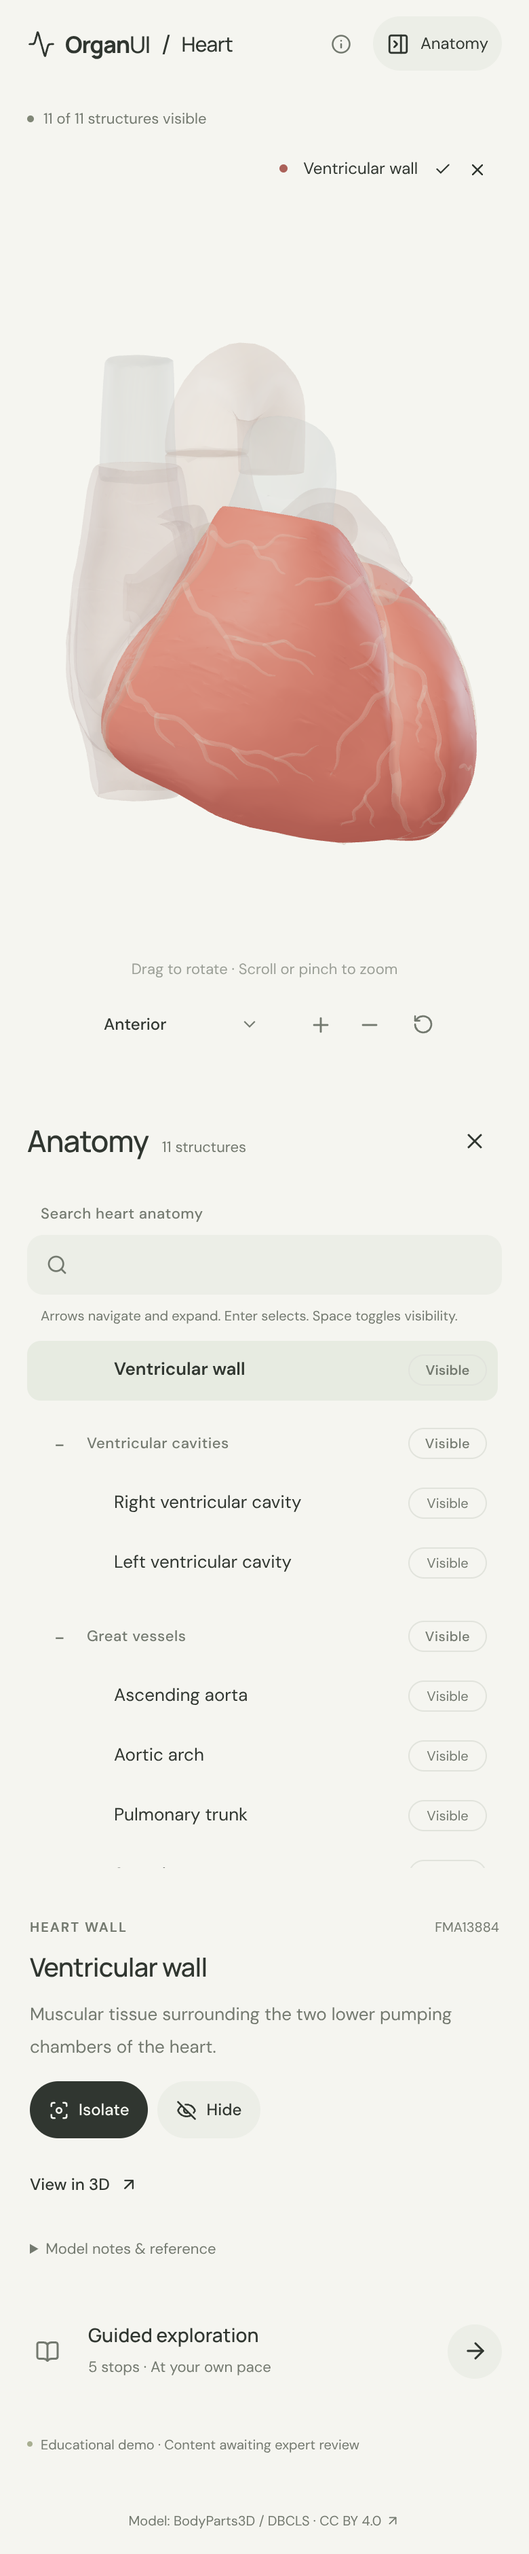
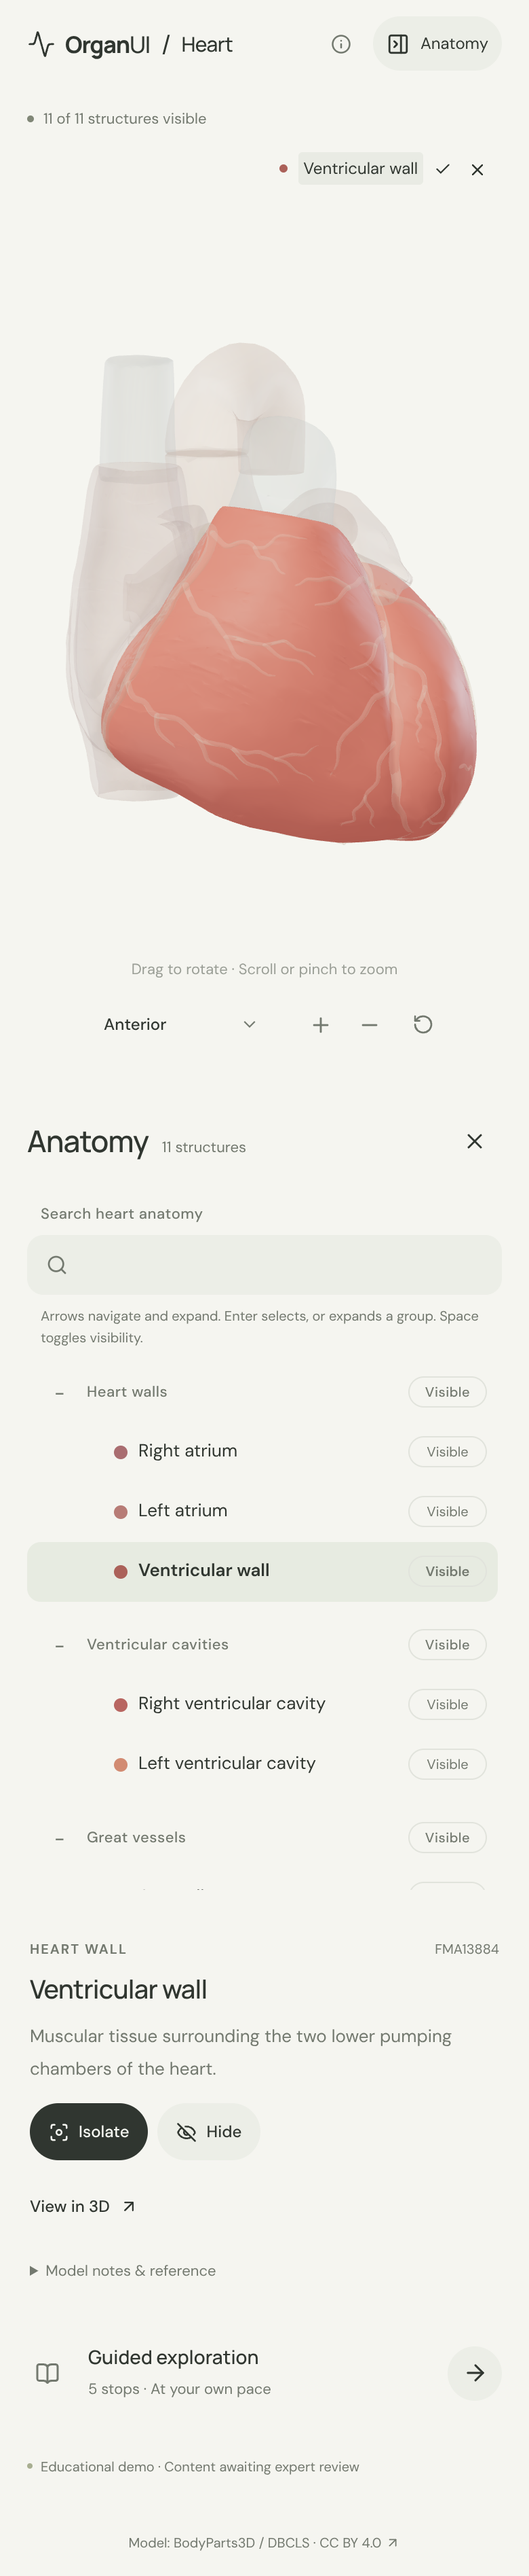
Adopt anatomy-tree colour swatches, non-selectable groups, and reveal
Reinstall the registry anatomy-tree with shadcn@4.21.0 from a local
server serving organui PR #12 (commit d6b36d0), which adds
AnatomyNode.color, AnatomyNode.selectable, and built-in reveal of the
selected row. The installed file is unmodified apart from the CLI's
"use client" removal; @base-ui/react stays pinned at 1.8.0.

- Leaves carry their mesh colour; group-* rows are selectable: false,
  so clicking or pressing Enter expands/collapses them. Drop the
  "is a grouping" announcement, keeping a guard for non-structure IDs.
- Remove the selection-driven scroll effect in favour of built-in
  reveal; keep only a panel-open scroll for selections made while the
  tree was hidden, which reveal cannot handle.
- Update adapter tests, the registry integration record (checksums,
  options, resolved friction, mobile page-scroll note), README and
  verification notes; recapture panel screenshots.

Claude-Session: https://claude.ai/code/session_01WZXw8BNji5gYqeZAzSuRCJ

diff --git a/src/components/ui/anatomy-tree.tsx b/src/components/ui/anatomy-tree.tsx
@@ -5,6 +5,13 @@ export type AnatomyNode = {
   id: string
   label: string
   children?: readonly AnatomyNode[]
+  /** A CSS color shown as a decorative swatch before the label. */
+  color?: string
+  /**
+   * Defaults to true. A row that is not selectable expands or collapses
+   * instead, for groupings that have no single structure to select.
+   */
+  selectable?: boolean
 }
 export type AnatomyTreeProps = {
   data: readonly AnatomyNode[]
@@ -158,11 +165,35 @@ export function AnatomyTree({
   const helpId = React.useId()
   const searchId = React.useId()
   const searching = deferredQuery.trim() !== ""
+  const groupsExpand = React.useMemo(
+    () => [...index.nodes.values()].some((node) => node.selectable === false),
+    [index]
+  )
   const rows = React.useMemo(
     () => anatomyRows(data, index, expanded, deferredQuery),
     [data, index, expanded, deferredQuery]
   )
   const focusId = focusTarget(rows, activePath, index.parents)
+  // Reveal a selection made outside the tree, such as in a 3D view: when its
+  // row is not shown, expand its ancestors, then scroll the row into view.
+  const [reveal, setReveal] = React.useState({ id: selectedId, scroll: false })
+  if (reveal.id !== selectedId) {
+    const known = !!selectedId && index.nodes.has(selectedId)
+    const shown = rows.some(({ node }) => node.id === selectedId)
+    setReveal({ id: selectedId, scroll: known })
+    const ancestors: string[] = []
+    let parent = known && !shown ? index.parents.get(selectedId!) : undefined
+    while (parent) {
+      ancestors.push(parent)
+      parent = index.parents.get(parent)
+    }
+    if (ancestors.some((id) => !expanded.has(id)))
+      setExpanded(new Set([...expanded, ...ancestors]))
+  }
+  React.useEffect(() => {
+    if (reveal.scroll && reveal.id)
+      refs.current.get(reveal.id)?.scrollIntoView?.({ block: "nearest" })
+  }, [reveal])
   React.useLayoutEffect(() => {
     // Recover only when an update removed the focused element. Focus that
     // left the tree on purpose, even to the body, is never taken back.
@@ -187,6 +218,10 @@ export function AnatomyTree({
       return next
     })
   }
+  function activate(node: AnatomyNode) {
+    if (node.selectable !== false) onSelectionChange(node.id)
+    else if (node.children?.length && !searching) toggleExpanded(node.id)
+  }
   function toggleVisibility(node: AnatomyNode) {
     onVisibilityChange(nextVisibility(node, index, visibility))
   }
@@ -206,7 +241,9 @@ export function AnatomyTree({
         className="mb-3 w-full rounded-md border bg-background px-3 py-2 text-sm focus-visible:outline-2 focus-visible:outline-ring"
       />
       <p id={helpId} className="mb-3 text-xs text-muted-foreground">
-        Arrows navigate and expand. Enter selects. Space toggles visibility.
+        {groupsExpand
+          ? "Arrows navigate and expand. Enter selects, or expands a group. Space toggles visibility."
+          : "Arrows navigate and expand. Enter selects. Space toggles visibility."}
       </p>
       <div
         role="tree"
@@ -249,7 +286,9 @@ export function AnatomyTree({
               aria-setsize={size}
               aria-posinset={position}
               aria-expanded={branch ? open : undefined}
-              aria-selected={selectedId === node.id}
+              aria-selected={
+                node.selectable === false ? undefined : selectedId === node.id
+              }
               aria-checked={checked}
               tabIndex={focusId === node.id ? 0 : -1}
               onFocus={() => {
@@ -290,7 +329,7 @@ export function AnatomyTree({
                   if (branch && open && !searching) toggleExpanded(node.id)
                   else focus(index.parents.get(node.id))
                 }
-                if (event.key === "Enter") onSelectionChange(node.id)
+                if (event.key === "Enter") activate(node)
                 if (event.key === " ") toggleVisibility(node)
               }}
               className="my-1 flex min-h-10 items-center gap-1 rounded-md px-2 text-sm outline-offset-2 hover:bg-muted focus-visible:outline-2 focus-visible:outline-ring aria-selected:bg-accent aria-selected:font-semibold"
@@ -316,11 +355,18 @@ export function AnatomyTree({
                 tabIndex={-1}
                 onClick={() => {
                   focus(node.id)
-                  onSelectionChange(node.id)
+                  activate(node)
                 }}
-                className="min-w-0 flex-1 py-2 text-start break-words"
+                className="flex min-w-0 flex-1 items-center gap-2 py-2 text-start break-words"
               >
-                {node.label}
+                {node.color && (
+                  <span
+                    aria-hidden="true"
+                    className="size-2.5 shrink-0 rounded-full"
+                    style={{ backgroundColor: node.color }}
+                  />
+                )}
+                <span className="min-w-0">{node.label}</span>
               </Button>
               <Button
                 tabIndex={-1}

diff --git a/src/App.tsx b/src/App.tsx
@@ -47,16 +47,19 @@ export default function App() {
   const [treeKey, setTreeKey] = useState(0)
   const current = selected ? byId[selected] : null
   const visibleCount = structures.length - hidden.size
-  // Keep the selected row in view inside the scrolling tree, without moving the page.
+  // The tree reveals selections made while it is shown. One made while the
+  // panel was closed (hidden tree, nothing to scroll) is brought into the tree's
+  // own scroll area when the panel opens, without moving the page.
   useLayoutEffect(() => {
+    if (!sidebarOpen) return
     const tree = anatomyPanel.current?.querySelector<HTMLElement>('[role="tree"]')
     const row = tree?.querySelector<HTMLElement>('[role="treeitem"][aria-selected="true"]')
-    if (!tree || !row || tree.scrollHeight <= tree.clientHeight) return
+    if (!tree || !row) return
     const bounds = tree.getBoundingClientRect(),
       item = row.getBoundingClientRect()
     if (item.top < bounds.top) tree.scrollTop += item.top - bounds.top
     else if (item.bottom > bounds.bottom) tree.scrollTop += item.bottom - bounds.bottom
-  }, [selected, step, sidebarOpen])
+  }, [sidebarOpen])
 
   useLayoutEffect(() => {
     if (!sidebarOpen || !focusPanel.current) return
@@ -88,13 +91,10 @@ export default function App() {
     )
   }
   // Selection stays a single structure: the renderer, detail card, and chip
-  // describe one structure. Group rows only expand/collapse and toggle visibility.
+  // describe one structure. Group rows are not selectable (they expand or
+  // collapse); the guard only drops unknown IDs.
   function choose(id: string) {
     if (isStructureId(id)) select(id)
-    else
-      setAnnouncement(
-        `${anatomyTree.find((group) => group.id === id)?.label ?? 'Group'} is a grouping. Choose a structure within it to select.`,
-      )
   }
   function changeVisibility(visibility: Record<string, boolean>) {
     const next = hiddenFromVisibility(visibility)

diff --git a/src/anatomy-adapter.ts b/src/anatomy-adapter.ts
@@ -3,7 +3,9 @@ import { groups, structures } from './anatomy'
 
 // Scene-specific mapping between the explorer's structures and the registry
 // anatomy tree. Group rows are interface groupings taken from the existing
-// list headings; they do not claim anatomical containment.
+// list headings; they do not claim anatomical containment, so they are not
+// selectable: activating one expands or collapses it. Leaves carry the same
+// colour the 3D mesh uses.
 
 const structureIds = new Set(structures.map(({ id }) => id))
 
@@ -16,9 +18,10 @@ export function groupId(group: string): string {
 export const anatomyTree: readonly AnatomyNode[] = groups.map((group) => ({
   id: groupId(group),
   label: group,
+  selectable: false,
   children: structures
     .filter((structure) => structure.group === group)
-    .map(({ id, name }) => ({ id, label: name })),
+    .map(({ id, name, color }) => ({ id, label: name, color })),
 }))
 
 export const groupIds = anatomyTree.map(({ id }) => id)

diff --git a/src/anatomy-adapter.test.ts b/src/anatomy-adapter.test.ts
@@ -23,6 +23,17 @@ describe('anatomy tree adapter', () => {
     )
   })
 
+  test('marks group rows as non-selectable and colours leaves like their meshes', () => {
+    for (const group of anatomyTree) {
+      expect(group.selectable).toBe(false)
+      expect(group.color).toBeUndefined()
+      for (const leaf of group.children!) {
+        expect(leaf.selectable).toBeUndefined()
+        expect(leaf.color).toBe(structures.find(({ id }) => id === leaf.id)!.color)
+      }
+    }
+  })
+
   test('maps group rows to their scene leaves and leaves to themselves', () => {
     expect(sceneIdsForNode('group-ventricular-cavities')).toEqual([
       'right-ventricle',

diff --git a/docs/REGISTRY_INTEGRATION.md b/docs/REGISTRY_INTEGRATION.md
@@ -4,21 +4,21 @@ The anatomy panel uses the OrganUI registry item `anatomy-tree`, installed with 
 
 ## Exact installation
 
-Installed on 2026-10-16:
+Reinstalled on 2026-10-16 (overwriting the earlier install from `master` commit 5e20c41):
 
 ```sh
-REGISTRY_URL=http://127.0.0.1:4410 bunx shadcn@4.21.0 add http://127.0.0.1:4410/anatomy-tree.json -y
+REGISTRY_URL=http://127.0.0.1:4411 bunx shadcn@4.21.0 add http://127.0.0.1:4411/anatomy-tree.json -y -o
 ```
 
-The install sandbox's network policy blocked `organui.com` and `ui.shadcn.com`. The item was therefore served from a local static server (`python3 -m http.server 4410`) holding the registry output built from the OrganUI repository at `master` commit **5e20c41**, plus shadcn's `colors/neutral.json` fetched from the shadcn GitHub repository. `REGISTRY_URL` points the CLI's own registry lookups at that server instead of `ui.shadcn.com`. With network access, the equivalent public command is `bunx shadcn@4.21.0 add https://organui.com/r/anatomy-tree.json -y`, but that public artifact was not fetched for this install and may differ from commit 5e20c41.
+The install sandbox's network policy blocked `organui.com` and `ui.shadcn.com`. The item was therefore served from a local static server (`python3 -m http.server 4411`) holding the registry output built from the OrganUI repository at commit **d6b36d0**, the head of organui PR #12 (not merged when this was installed), plus shadcn's `colors/neutral.json` fetched from the shadcn GitHub repository. `REGISTRY_URL` points the CLI's own registry lookups at that server instead of `ui.shadcn.com`. With network access, the equivalent public command is `bunx shadcn@4.21.0 add https://organui.com/r/anatomy-tree.json -y -o`. That public artifact was not fetched for this install; once PR #12 is merged and published, the public item must be re-verified against the checksums below (or reinstalled from it).
 
-| Artifact                                | SHA-256                                                            |
-| --------------------------------------- | ------------------------------------------------------------------ |
[3 lines of base64/hex data omitted]
+| Artifact                                     | SHA-256                                                            |
+| -------------------------------------------- | ------------------------------------------------------------------ |
[3 lines of base64/hex data omitted]
 
-The item declares `@base-ui/react@^1.8.0`. The CLI wrote `^1.8.0` to `package.json`; it was changed back to the exact `1.8.0` to match this repository's exact pins, and `bun install` refreshed the text `bun.lock`. Tailwind CSS and `@tailwindcss/vite` are pinned at 4.1.18, matching the kidney explorer.
+The item declares `@base-ui/react@^1.8.0`. The CLI again wrote `^1.8.0` to `package.json`; it was changed back to the exact `1.8.0` to match this repository's exact pins, and `bun install` left the text `bun.lock` unchanged. Tailwind CSS and `@tailwindcss/vite` are pinned at 4.1.18, matching the kidney explorer.
 
 ## Installed-source differences
 
@@ -26,13 +26,13 @@ The only difference from the published source is that the CLI removed the `"use 
 
 ## API used
 
-- `data`: four group rows, each with its structure leaves;
+- `data`: four group rows (`selectable: false`), each with its structure leaves (`color` set to the structure's mesh colour);
 - `selectedId` / `onSelectionChange`: the app's single controlled selection;
 - `visibility` / `onVisibilityChange`: a map keyed by leaf IDs, where a missing entry means visible;
 - `defaultExpandedIds`: all four groups, so the tree initially lists every structure like the old list;
 - `label="Heart anatomy"` and `className="registry-tree"`.
 
-Search and expansion stay internal to the component.
+Search and expansion stay internal to the component. The component's built-in reveal expands a collapsed group and scrolls the row into view when the selection changes to a row that is not shown, for example after a 3D pick or a tour step.
 
 ## Application adapter
 
@@ -47,16 +47,17 @@ Scene-specific logic lives in `src/anatomy-adapter.ts`, built from the existing 
 
 Groups are the headings the hand-built list already used. They are interface groupings only and do not claim anatomical containment (for example, the cavity surfaces are not "inside" the walls group). Every leaf ID is exactly one application structure ID and one GLB node.
 
-The adapter provides `anatomyTree`, `sceneIdsForNode`, `normalizeVisibility`, `visibilityFromHidden` / `hiddenFromVisibility` (the app keeps its existing `hidden` set and converts at the boundary), `isStructureId`, and `assertAnatomyMapping`, which runs at import and throws on missing, unknown, or duplicate leaves. `src/anatomy-adapter.test.ts` covers these with `bun test`.
+Leaves carry `color` from `structures` in `src/anatomy.ts`, the same value the renderer applies to the mesh material; group rows set `selectable: false`. The adapter provides `anatomyTree`, `sceneIdsForNode`, `normalizeVisibility`, `visibilityFromHidden` / `hiddenFromVisibility` (the app keeps its existing `hidden` set and converts at the boundary), `isStructureId`, and `assertAnatomyMapping`, which runs at import and throws on missing, unknown, or duplicate leaves. `src/anatomy-adapter.test.ts` covers these with `bun test`.
 
 ## Decisions
 
-- **Group rows do not select.** The renderer's emphasis, the details card, and the selection chip all describe exactly one structure, so multi-structure selection would not fit cleanly. Clicking or pressing Enter on a group row leaves the selection unchanged and announces that it is a grouping; group rows still expand/collapse and toggle the visibility of all their structures (showing `Mixed` when partly hidden).
+- **Group rows do not select.** The renderer's emphasis, the details card, and the selection chip all describe exactly one structure, so multi-structure selection would not fit cleanly. Group rows are `selectable: false`: clicking the label or pressing Enter expands or collapses them, they carry no `aria-selected`, and the selection is unchanged. They still toggle the visibility of all their structures (showing `Mixed` when partly hidden). `onSelectionChange` keeps only a one-line guard that ignores IDs that are not structures.
+- **Colour swatches**: each structure row shows the component's swatch in the structure's mesh colour, restoring the colour dots of the hand-built list.
 - **Visibility** stays the app's `hidden` set. Tree changes, the detail-card Hide/Show, Isolate, Restore all, the guided tour, and Reset all write that one set.
 - **Reset** increments the tree's React `key`, remounting it to clear its internal search and expansion along with selection, visibility, tour, and camera.
 - **Search** matches row labels only (the component's behaviour). The old list also matched source names and FMA identifiers; FMA IDs remain visible in the details card. Search is no longer cleared on 3D selection or tour steps, because the component does not expose its query; Reset clears it.
 - **Hidden structures are not pickable.** `src/picking.ts` already ignores intersections with invisible meshes or their descendants, so hidden foreground anatomy neither selects itself nor blocks visible surfaces behind it. Hidden structures remain selectable through the tree.
-- The app keeps the selected row scrolled into view inside the tree's scroll area, as the old list did.
+- **Reveal**: the app's own scroll-into-view effect for selection changes was removed in favour of the component's reveal. One narrow effect remains: when the panel opens, the app scrolls an already-selected row into the tree's own scroll area. A selection made while the panel is closed happens while the tree is `display: none`, so the component's reveal has nothing to scroll then and does not run again on open. This effect only adjusts the tree's `scrollTop` and never moves the page.
 - Unchanged: selected structure glows in its colour at 0.35 emissive with others ghosted; clicking a structure does not change the view label to "Custom view"; panel closed by default and opened from the header; focus moves into the panel and returns to the toggle on Escape/close; chip name opens the panel; toolbar order is view menu, zoom in, zoom out, reset. `src/framing.ts` was not touched.
 
 ## Theme setup
@@ -67,12 +68,12 @@ As in the kidney explorer, the app's global resets moved into `@layer base` afte
 
 ## Friction and observations
 
-No registry defect blocked the integration and the component was not modified.
+No registry defect blocked the integration and the component was not modified. Resolved by organui PR #12: group rows no longer need app-side handling of group selection callbacks (`selectable: false`), colour dots are available again (`color`), and remount/scroll workarounds for revealing a selection are no longer needed (built-in reveal).
 
 1. The CLI loosened the exact dependency pin to `^1.8.0`; consumers with exact pins need to restore them.
-2. Search and expansion are internal. Clearing them needs a remount; the app also cannot clear search when a 3D selection would otherwise be filtered out of view.
+2. Search and expansion are internal. Clearing them needs a remount (Reset does this). A selection hidden by an active search query is not revealed, because reveal only expands ancestors.
 3. The search box has no placeholder or icon prop, so the visible label and the CSS search glyph carry that role.
-4. Selection callbacks fire for group rows too; a consumer whose selection is leaf-only must ignore them, which leaves the group label button without a visible effect.
-5. Row labels are plain text, so the old per-structure colour dots could not be kept without changing the component.
+4. The built-in reveal calls `scrollIntoView({ block: "nearest" })`, which scrolls every scrollable ancestor, not just the tree. On phones, where the panel sits below the model, picking a structure in 3D while the panel is open scrolls the page down to the tree row (about 550 px at 390 x 844). Desktop is unaffected (the panel is in view). Scrolling only the tree's own container would avoid this; the app does not work around it.
+5. Reveal runs only when `selectedId` changes, so a selection made while the tree is hidden is not scrolled into view when it is shown again (see Reveal above).
 
 Screen-reader testing of the tree was not done.

diff --git a/README.md b/README.md
@@ -35,7 +35,7 @@ The app is static and uses relative build paths. `dist/` can later be hosted on 
 - The heart opens centered on a neutral canvas. Expand **Anatomy** to browse structures; collapse it to return to the full-width view.
 - Drag to rotate; scroll or pinch to zoom. The gesture hint fades after the first rotation or zoom and stays hidden until the page reloads.
 - Open the camera view selector for anterior, posterior, and left lateral presets. Manual rotation changes its label to **Custom view**; zooming preserves the view name. Use arrow keys to navigate the menu, Enter to select, and Escape to close it.
-- Select a mesh or use the anatomy tree (the OrganUI registry `anatomy-tree` component). The tree searches structure and group labels; group rows expand/collapse and show or hide all their structures (showing **Mixed** when partly hidden). Selection is always a single structure; selection, highlighting, and descriptions stay synchronized. See [registry integration](docs/REGISTRY_INTEGRATION.md).
+- Select a mesh or use the anatomy tree (the OrganUI registry `anatomy-tree` component). The tree searches structure and group labels; each structure shows the colour of its 3D mesh. Group rows are not selectable: clicking or pressing Enter expands/collapses them, and their visibility button shows or hides all their structures (showing **Mixed** when partly hidden). A structure picked in 3D inside a collapsed group is revealed in the tree. Selection is always a single structure; selection, highlighting, and descriptions stay synchronized. See [registry integration](docs/REGISTRY_INTEGRATION.md).
 - Isolate a structure, hide it, or restore all. **Reset explorer** restores the anterior camera, zoom, visibility, selection, tree search/expansion, and tour state.
 - Follow five guided stops, including an isolated ventricular cavity and the heart's coronary supply.
 - On mobile, **Anatomy** opens the tree below the model; **View in 3D** closes it and returns to the heart. Selection and search survive closing/reopening the panel.
@@ -47,7 +47,7 @@ The app is static and uses relative build paths. `dist/` can later be hosted on 
 <details>
 <summary>Anatomy menu, mobile, and guided exploration screenshots</summary>
 
-![Anatomy tree with the ventricular wall selected](docs/screenshots/anatomy.png)
+![Anatomy tree with the aortic arch selected](docs/screenshots/anatomy.png)
 
 <img src="docs/screenshots/mobile.png" alt="Mobile heart explorer" width="300" />
 

diff --git a/docs/VERIFICATION.md b/docs/VERIFICATION.md
@@ -73,6 +73,22 @@ The hand-built structure list and its search field were replaced by the OrganUI 
 
 No screen reader was used to test the tree. [Anatomy tree](screenshots/anatomy.png), [mobile anatomy tree](screenshots/anatomy-mobile.png), and [guided isolation](screenshots/guided-isolation.png) were recaptured; `desktop.png` and `mobile.png` show the unchanged closed-panel view.
 
+## Anatomy tree options, 16 October 2026
+
+The registry `anatomy-tree` was reinstalled from organui PR #12 (commit d6b36d0, served locally; see the [integration record](REGISTRY_INTEGRATION.md)) to use its new `color`, `selectable`, and reveal behaviour. Checked against a production build in headless Chromium (Playwright 1.56, SwiftShader WebGL) at 1440 × 900 and 390 × 844:
+
+- All 11 structure rows show a swatch whose computed colour equals the structure's mesh colour; the 4 group rows have no swatch and no `aria-selected`.
+- Clicking a group label, or pressing Enter on a focused group row, collapses/expands it and leaves the selection unchanged.
+- With Great vessels collapsed, a 3D click on the pulmonary trunk expands the group, selects the row, and scrolls it into the tree's visible area. On desktop the page does not move; on mobile the component's reveal also scrolls the page down to the row (recorded as friction).
+- A structure picked in 3D with the panel closed is scrolled into the tree's view when the panel opens.
+- Searching “aort” and selecting Ascending aorta works; hiding a leaf gives Mixed and 10 of 11; group hide gives 7 of 11; showing one of its leaves gives Mixed and 8 of 11.
+- Reset clears search, expansion, visibility, and selection (15 rows, 11 of 11 visible, view **Anterior**). A 3D click keeps the view label at **Anterior**.
+- Panel closed by default; the chip and header toggle open it with focus moved into the panel; Escape closes it and returns focus to the toggle. Toolbar order: view menu, zoom in, zoom out, reset.
+- No console errors and no horizontal overflow at either size.
+- `bun install --frozen-lockfile` (fresh `node_modules`), `bun run typecheck`, `bun run test` (11 tests), `bun run build`, and `bun run format:check` passed.
+
+[Anatomy tree](screenshots/anatomy.png), [mobile anatomy tree](screenshots/anatomy-mobile.png), and [guided isolation](screenshots/guided-isolation.png) were recaptured.
+
 ## Visual artifacts
 
 - [Desktop](screenshots/desktop.png)
